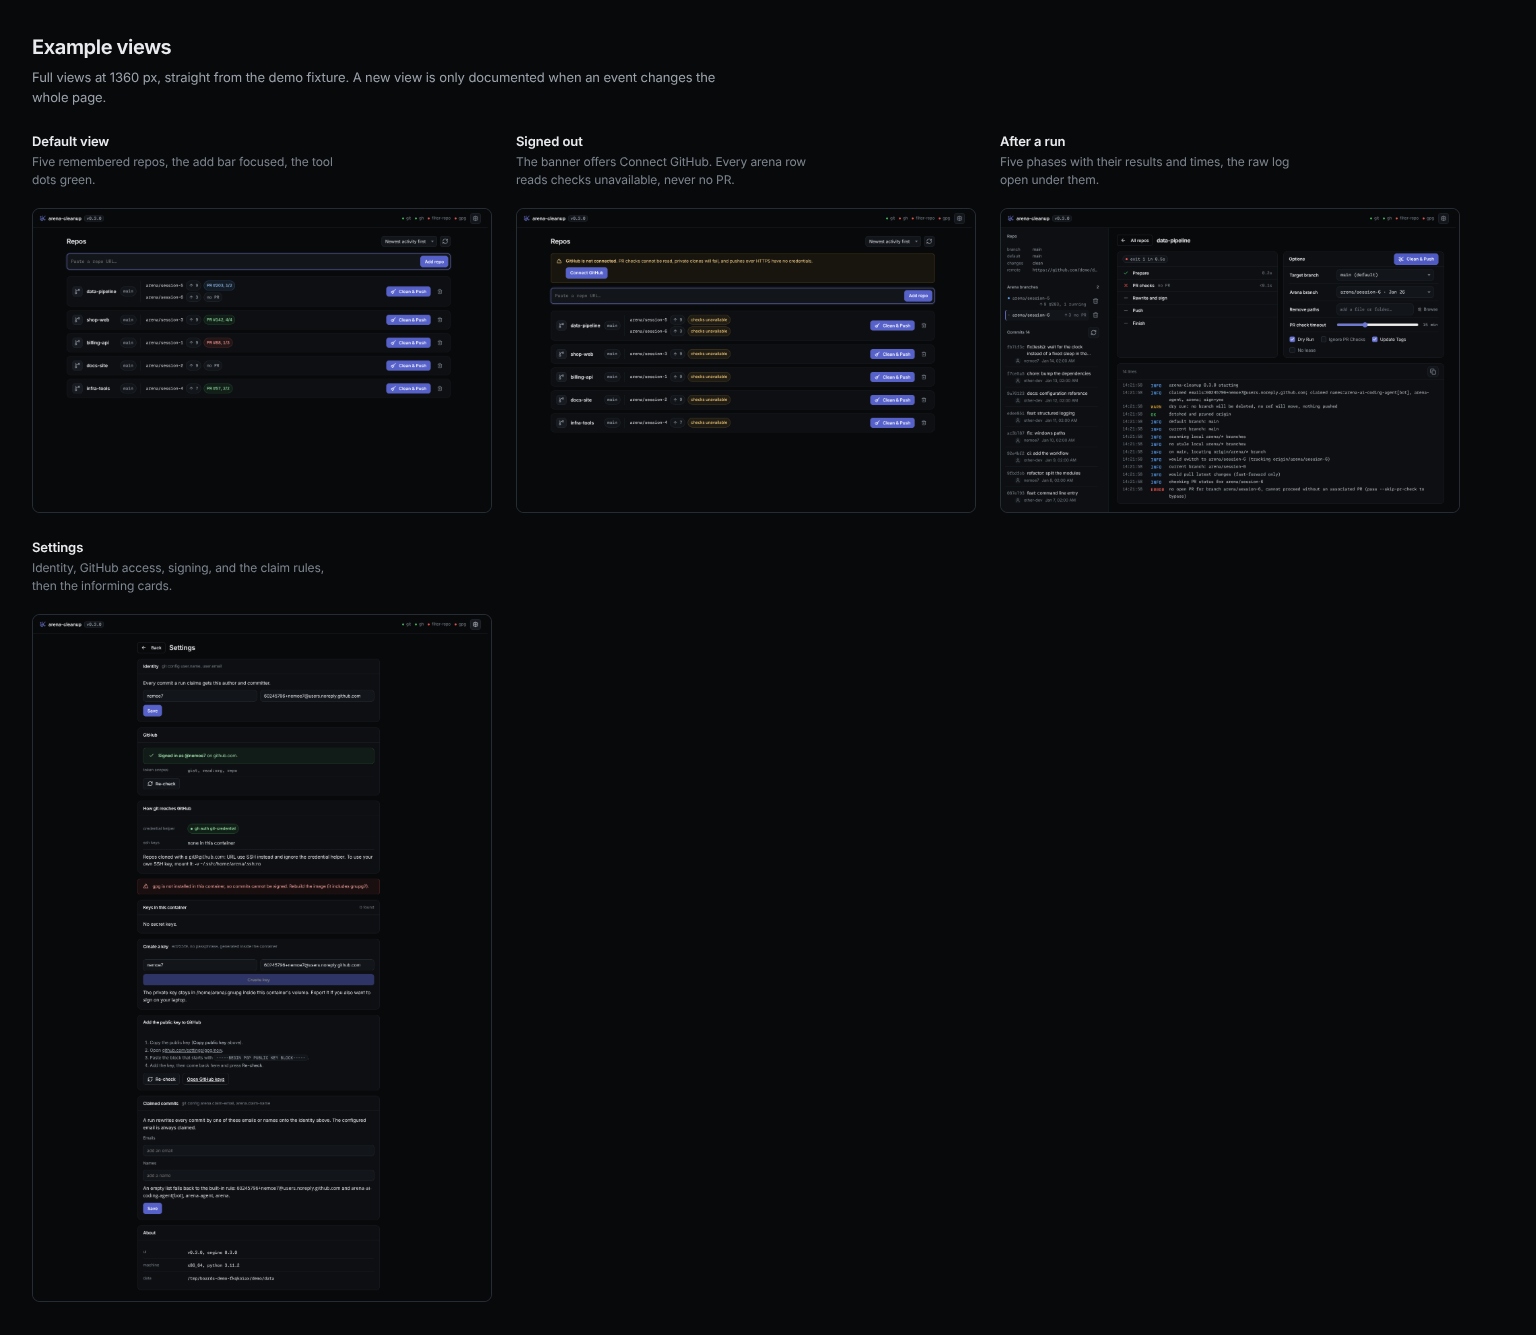
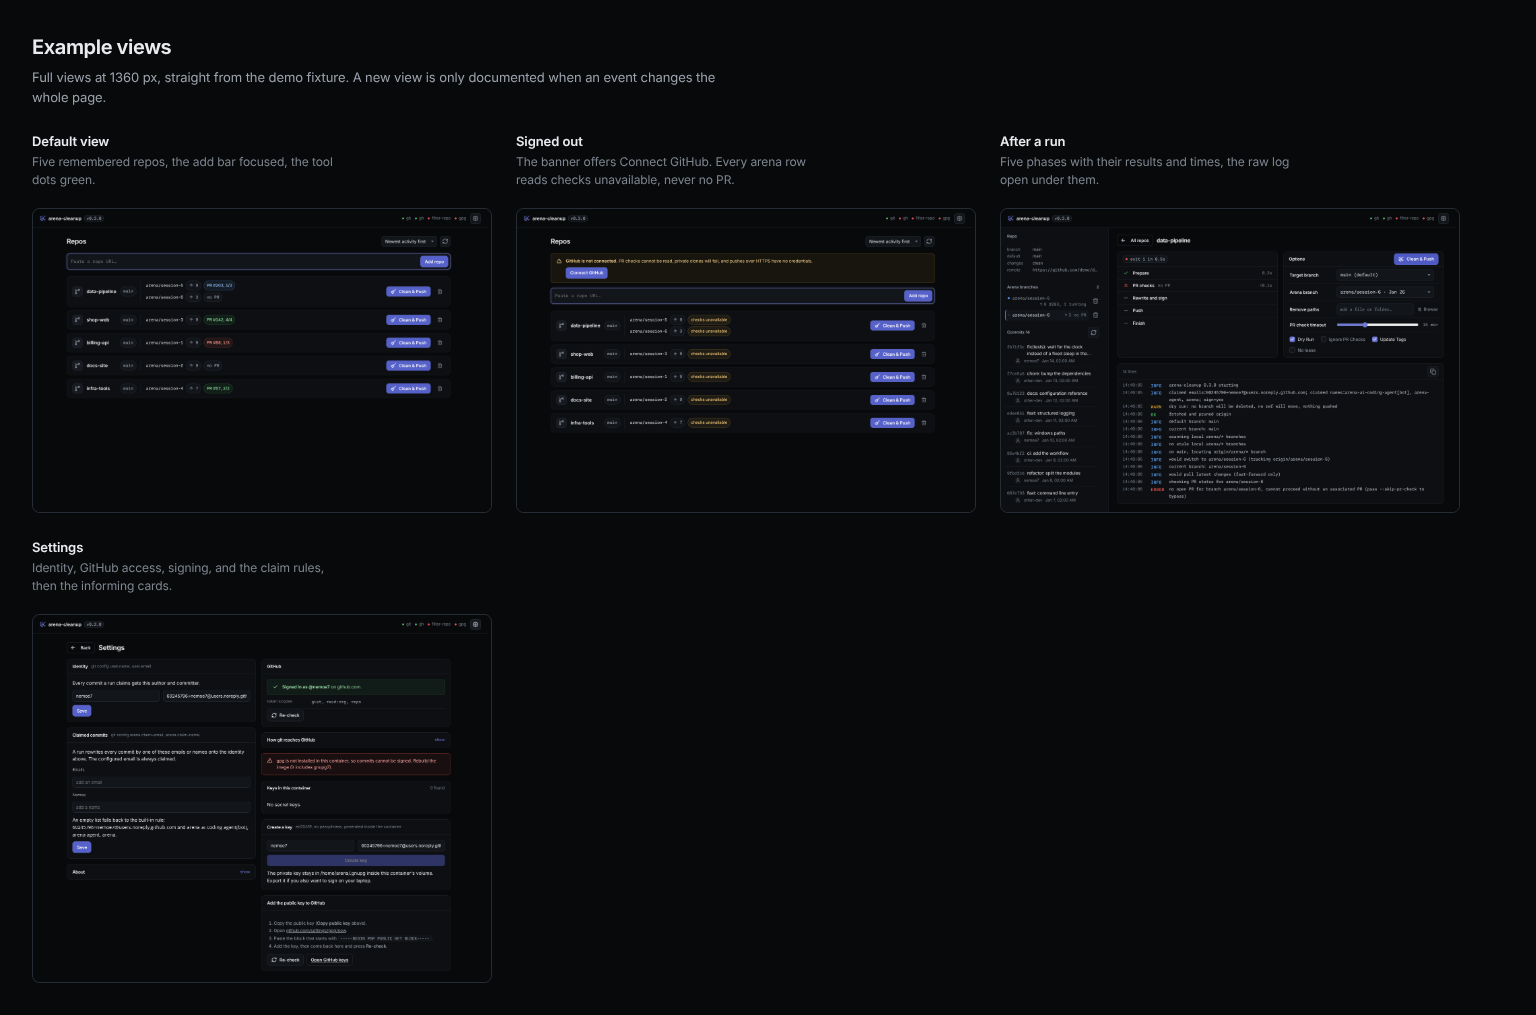
feat(ui): settings in two columns with folded help cards

diff --git a/ui/static/index.html b/ui/static/index.html
@@ -591,7 +591,24 @@
   .chip-edit .pill button svg { width: var(--ico-s); height: var(--ico-s); }
   .claim-label { font-size: var(--fs-1); color: var(--muted); margin-top: 2px; }
   /* a deep link scrolls a card group under the sticky header, not behind it */
-  #settings-body > .stack { scroll-margin-top: 72px; }
+  .settings-col > .stack { scroll-margin-top: 72px; }
+  /* two columns above 1200 px; below, the columns dissolve and the sections keep one order */
+  #settings-body { grid-template-columns: 1fr 1fr; align-items: start; }
+  #view-settings .wrap { max-width: 1180px; }
+  @media (max-width: 1200px) {
+    #settings-body { grid-template-columns: 1fr; }
+    .settings-col { display: contents; }
+    #identity-body { order: 1; } #access-body { order: 2; } #signing-body { order: 3; }
+    #claims-body { order: 4; } #info-body { order: 5; }
+  }
+  /* a help card folds: the head is the summary, the body opens on a click */
+  .card.fold > summary { list-style: none; cursor: pointer; }
+  .card.fold > summary::-webkit-details-marker { display: none; }
+  .card.fold:not([open]) > summary { border-bottom: 0; }
+  .card.fold > summary:focus-visible { outline: 2px solid var(--accent); outline-offset: -2px; border-radius: 12px; }
+  .fold-mark { margin-left: auto; color: var(--accent); font-size: var(--fs-1); }
+  .fold-mark::after { content: "show"; }
+  .card.fold[open] .fold-mark::after { content: "hide"; }
   .sign-key { font: var(--fs-1) var(--mono); color: var(--muted); overflow-wrap: anywhere; flex: 1; min-width: 220px; }
   .sign-key b { color: var(--text); font-weight: 600; }
   .banner {
@@ -893,17 +910,21 @@
   <!-- ============================================================= settings -->
   <!-- One page for every per-machine setting: identity, GitHub access, signing, claim rules. About sits below. -->
   <div class="view" id="view-settings" hidden>
-    <div class="wrap" style="max-width:760px">
+    <div class="wrap">
       <div class="detail-head" style="margin-bottom:16px">
         <button class="btn ghost back" id="settings-back"><span class="ico-svg" data-icon="arrow-left" aria-hidden="true"></span>Back</button>
         <h1 class="page-title" tabindex="-1">Settings</h1>
       </div>
       <div id="settings-body" class="stack">
-        <div id="identity-body" class="stack"></div>
-        <div id="access-body" class="stack"></div>
-        <div id="signing-body" class="stack"></div>
-        <div id="claims-body" class="stack"></div>
-        <div id="info-body" class="stack"></div>
+        <div class="stack settings-col">
+          <div id="identity-body" class="stack"></div>
+          <div id="claims-body" class="stack"></div>
+          <div id="info-body" class="stack"></div>
+        </div>
+        <div class="stack settings-col">
+          <div id="access-body" class="stack"></div>
+          <div id="signing-body" class="stack"></div>
+        </div>
       </div>
     </div>
   </div>
@@ -2171,13 +2192,13 @@
           el("div", {}, el("b", {}, "git has no credential helper yet."),
             " Cloning and pushing over HTTPS will fail. One click fixes it, and applies to every repo here."))
       : null;
-    nodes.push(el("div", { class: "card" },
-      el("div", { class: "card-head" }, el("h2", {}, "How git reaches GitHub"),
-        el("div", { class: "grow" }),
-        gh.authenticated && !g.credentials_for_gh
-          ? el("button", { class: "btn", onclick: setupGit }, "Configure") : null),
+    nodes.push(el("details", { class: "card fold", open: Boolean(gitBanner) },
+      el("summary", { class: "card-head" }, el("h2", {}, "How git reaches GitHub"),
+        el("span", { class: "fold-mark", "aria-hidden": "true" })),
       el("div", { class: "card-body" },
         gitBanner || el("div", {}),
+        gh.authenticated && !g.credentials_for_gh
+          ? el("button", { class: "btn", style: "margin-bottom:10px", onclick: setupGit }, "Configure") : null,
         ...gitRows,
         el("div", { class: "hint", style: "margin-top:10px" },
           "Repos cloned with a ", el("code", {}, "git@github.com:"), " URL use SSH instead and ignore the credential helper. To use your own SSH key, mount it: ",
@@ -2187,8 +2208,8 @@
   }
 
   function renderInfo() {
-    $("info-body").replaceChildren(el("div", { class: "card" },
-      el("div", { class: "card-head" }, el("h2", {}, "About")),
+    $("info-body").replaceChildren(el("details", { class: "card fold" },
+      el("summary", { class: "card-head" }, el("h2", {}, "About"), el("span", { class: "fold-mark", "aria-hidden": "true" })),
       el("div", { class: "card-body" },
         pillRow("ui", el("span", { class: "mono" }, state.env ? `v${state.env.version}, engine ${state.env.tool}` : "?")),
         pillRow("machine", el("span", { class: "mono" }, state.env ? `${state.env.arch}, python ${state.env.python}` : "?")),

diff --git a/tests/e2e/test_settings_layout.py b/tests/e2e/test_settings_layout.py
@@ -1,0 +1,73 @@
+"""The settings page: two columns above 1200 px, one below, and folded help cards."""
+
+from __future__ import annotations
+
+from typing import Any
+
+import pytest
+
+from scripts.walk import Demo, Walker
+
+pytestmark = pytest.mark.e2e
+
+SECTIONS = [
+  "#identity-body",
+  "#access-body",
+  "#signing-body",
+  "#claims-body",
+  "#info-body",
+]
+PROBE = """(ids) => {
+  const box = (s) => document.querySelector(s).getBoundingClientRect();
+  return {
+    height: document.documentElement.scrollHeight,
+    tops: ids.map((s) => Math.round(box(s).top)),
+    lefts: ids.map((s) => Math.round(box(s).left)),
+    folds: [...document.querySelectorAll('details.fold')].map((d) => [d.querySelector('h2').textContent, d.open]),
+  };
+}"""
+
+
+def probe(browser: Any, demo: Demo, width: int) -> dict[str, Any]:
+  context = browser.new_context(viewport={"width": width, "height": 900})
+  try:
+    walker = Walker(context, f"{demo.url}/#/settings")
+    walker.goto(800)
+    walker.page.wait_for_selector("#card-identity")
+    return walker.page.evaluate(PROBE, SECTIONS)
+  finally:
+    context.close()
+
+
+def test_above_1200_the_settings_fill_two_columns(browser: Any, demo: Demo) -> None:
+  wide = probe(browser, demo, 1280)
+  identity, access, signing, claims, info = wide["tops"]
+  assert identity == access, "the two columns start level"
+  assert identity < claims < info, "left: Identity, Claimed commits, About"
+  assert access < signing, "right: GitHub, then the keys"
+  assert wide["lefts"][0] < wide["lefts"][1], "Identity left, GitHub right"
+  assert wide["lefts"][0] == wide["lefts"][3] == wide["lefts"][4]
+  narrow = probe(browser, demo, 1200)
+  assert narrow["tops"] == sorted(narrow["tops"]), "one column keeps the old order"
+  assert len(set(narrow["lefts"])) == 1
+  assert wide["height"] < narrow["height"], "two columns make a shorter page"
+
+
+def test_the_help_cards_fold(desktop: Walker) -> None:
+  page = desktop.page
+  page.goto(f"{desktop.url}/#/settings", wait_until="networkidle")
+  page.wait_for_selector("#card-identity")
+  folds = dict(page.evaluate(PROBE, SECTIONS)["folds"])
+  assert folds == {"How git reaches GitHub": False, "About": False}
+  desktop.click("#info-body details.fold > summary", 200)
+  assert (
+    page.evaluate("() => document.querySelector('#info-body details.fold').open")
+    is True
+  )
+  assert desktop.visible("#info-body details.fold .card-body")
+  desktop.click("#info-body details.fold > summary", 200)
+  assert not desktop.visible("#info-body details.fold .card-body")
+  mark = page.eval_on_selector(
+    "#info-body .fold-mark", "e => getComputedStyle(e, '::after').content"
+  )
+  assert mark == '"show"'

diff --git a/docs/design.md b/docs/design.md
@@ -30,7 +30,7 @@ The one design record for the arena-cleanup web app. The sections follow the nem
 
 - Dashboard: sort select and Reload button in the head, add bar. One repo row per repo above 1200 px, repo cards at 1200 px and below. Empty: a hint with the add command. Error: a banner above the rows. A row or card shows the branch. The repo name is a button that opens the repo, and a click on the card body does the same. The card itself has no role. Each arena row has two lines at every width: the branch name, then `↑ N` and the PR pill. `↑ N` is the net count, the commits that branch holds beyond `origin/<default>` minus the commits `origin/<default>` holds beyond it, with a tooltip. The chip hides below 1, so absorbed work and a default branch that moved on show no chip. No dot sits before the name or in the PR pill, the pill colour carries the state. The Remove trash glyph sits top right, bare at rest. A red frame comes on hover, on press, and while armed.
 - Repo: a 320 px sidebar, then the run card left and the options card right, and the log card below both. The run card holds the status and the phase list. The log card holds the open log of the latest run and takes the height that is left, down to a 160 px floor. Both come back after a return to the view or a restart. The main column pins to the window like the sidebar, so only the log scrolls. The options card head carries the one run button. It reads Clean & Push while idle and Cancel while a run is live. Each option is one row: label, control, and a trailing action or readout. No hint texts. Dry Run, Ignore PR Checks, Update Tags (checked by default), and No lease are checkboxes. No lease is the one danger-coloured option: checked, the run pushes with `git push --force` and no lease, and its tooltip names the two other effects of `-f`. PR check timeout is a slider with the number beside it. It snaps to 0, 5, 10, 15, 20, 30, 45, 60, 90, or 120 minutes. Target branch lists the default branch first and never an `arena/*` branch. Arena branch appears with two or more arena branches, newest tip first. Each option reads `branch · day`, and the full stamp sits in its title. The chosen one goes to the run as `--arena`. The sidebar holds the repo facts and the arena rows on top. The commit list fills the rest and scrolls on its own. Its hint is the commit count with thousands separators. The list holds 30 commits a page, and a scroll near the end appends the older page. Each row shows hash, subject, author, and date. Reload sits in its label. Each arena row shows the PR state and is a button that selects the branch to pull from. The page runs the full flow only. `strip` is a CLI command. Browse under Remove paths opens the HEAD tree of the clone, one level per request. A click on a row or its plus adds the chip. Log rows show the clock of the browser. Remove on a card arms on the first click and deletes the URL clone on the second. States: idle, running, done, failed, cancelled. A managed clone goes back to origin before every run. The server fetches, checks out the default branch, resets hard, and drops local `arena/*` copies.
-- Settings: Identity (name, email, Save), GitHub sign-in and credential helper, signing cards, Claimed commits (two chip lists, Save). Below: About. Signing cards: gpg banner when gpg is missing, key list, create card, GitHub key steps. Disabled: Create key while gpg is missing. Error: the banner names the failed check. Each card loads on its own.
+- Settings: two columns above 1200 px. Left: Identity (name, email, Save), Claimed commits (two chip lists, Save), About. Right: GitHub sign-in, How git reaches GitHub, signing cards. One column at 1200 px and below, in the order Identity, GitHub, signing, Claimed commits, About. How git reaches GitHub and About fold, and open on a click. The first opens on its own when git has no credential helper. Signing cards: gpg banner when gpg is missing, key list, create card, GitHub key steps. Disabled: Create key while gpg is missing. Error: the banner names the failed check. Each card loads on its own.
 - Offline: the service worker serves the shell. Data requests fail with the normal error banner.
 - Loading and permission states: not run as separate checks.
 
@@ -65,7 +65,7 @@ The one design record for the arena-cleanup web app. The sections follow the nem
 
 - Spacing scale: 2, 4, 6, 8, 10, 12, 16, 20, 24, and 32 px, with 1 px for borders.
 - Page padding `--pad`: 20 px, 16 px at 1200 px and below, 14 px at 640 px and below.
-- Breakpoints, the nuu trio, one change each. 1200 px stacks the options card over the run card, folds the repo rows into cards, and tightens the padding. 900 px stacks the sidebar below the cards and the repo cards into one column, and the page scrolls as one. 640 px switches to the phone ramp, 44 px targets, and stacked rows. The options sit in one column at every width. No other width carries a rule.
+- Breakpoints, the nuu trio, one change each. 1200 px stacks the options card over the run card and folds the repo rows into cards. It puts the settings in one column and tightens the padding. 900 px stacks the sidebar below the cards and the repo cards into one column, and the page scrolls as one. 640 px switches to the phone ramp, 44 px targets, and stacked rows. The options sit in one column at every width. No other width carries a rule.
 - Radius: 12 px for cards, 8 px for buttons and fields, and 999 px for pills. The tree select takes 6 px, the checkbox 4 px.
 
 ### Theme and motion
@@ -86,6 +86,7 @@ The one design record for the arena-cleanup web app. The sections follow the nem
 - `repo-card`: above 1200 px a subgrid row on the columns of `grid`, so the columns align across rows. Left to right: the icon, the name, the branch pill, the arena rows stacked behind a hairline, Clean, and Remove with the trash glyph. The arena area takes the free width, so the buttons sit at the right edge. In a row an arena row is one line: the name, the ahead chip, and the PR pill. At 1200 px and below a grid card. The icon, the name, and Remove sit on top on one centre line, then the arena rows, and Clean & Push bottom right. The branch chip stays in the rows, and an unavailable card shows its reason in the arena area.
 - `sign-row`: label column of 120 px and a value column. On a phone the label takes a full row.
 - `sign-fields`: name and e-mail side by side, one column on a phone.
+- `card.fold`: a `details` card. The `summary` is the card head with a `show` or `hide` mark at the right, and the body opens below it. Closed, the head has no bottom border.
 - `banner`: `err`, `warn`, `ok` variants with an icon and one sentence of action.
 - `run button`: one button with `data-state` idle, starting, or running. Idle reads Clean & Push and is the primary. Starting is disabled until the job id arrives. Running reads Cancel as a plain button.
 - `tree`: the path selector. Rows are `treeitem`s with `aria-level`. A folder row carries `aria-expanded` and loads its children on the first open. The trailing `tree-select` button toggles the path and reports `aria-pressed`. Rows and select buttons grow to 44 px on a phone.
@@ -188,3 +189,4 @@ The one design record for the arena-cleanup web app. The sections follow the nem
 - Accepted 2026-10-23: the dashboard Clean & Push button reads the glyph and the words again in rows and cards. A card puts it bottom right and drops the branch chip.
 - Accepted 2026-10-23: the commit hint is the count alone, with thousands separators. The list pages 30 at a time, a scroll near the end loads the older page, and Reload restarts.
 - Accepted 2026-10-23: each sidebar arena row carries a trash control. A modal names the branch and asks first, with no warning about an open PR. Delete drops the branch on origin and refreshes the views.
+- Accepted 2026-10-23: the settings page is two columns above 1200 px. The help cards How git reaches GitHub and About fold at every width. The page drops from 2037 px to 1089 px at 1280, and from 2728 px to 2219 px at 360.

diff --git a/CHANGELOG.md b/CHANGELOG.md
@@ -24,6 +24,9 @@ and the project uses [Semantic Versioning](https://semver.org/spec/v2.0.0.html).
 
 ### Changed
 
+- The settings page is two columns above 1200 px: Identity, Claimed commits,
+  and About left, GitHub and the keys right. How git reaches GitHub and About
+  fold at every width and open on a click.
 - The commit hint reads the commit count alone, with thousands separators,
   in place of `shown of total on branch`.
 - Every Clean & Push button carries the broom glyph before its words, and its
